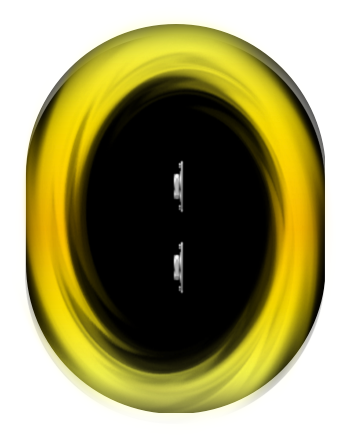
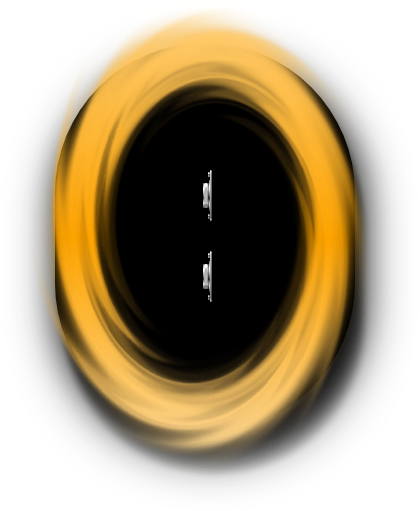
Fix jack positions, generate proper screenshots

diff --git a/portal.lv2/modgui/stylesheet-sink.css b/portal.lv2/modgui/stylesheet-sink.css
@@ -15,7 +15,7 @@
 .falktx-portal-sink .mod-pedal-input,
 .falktx-portal-sink .mod-pedal-output {
     top: 125px;
-    left: 70px;
+    left: 80px;
 }
 
 .falktx-portal-sink .mod-pedal-input .mod-audio-input {
@@ -44,7 +44,7 @@ OTHERWISE, ARISING FROM, OUT OF OR IN CONNECTION WITH THE SOFTWARE OR THE USE OR
     position: absolute;
     width: 390px;
     height: 390px;
-    filter: contrast(1.75);
+    /*filter: contrast(1.75);*/
     transform: translateX(-50px) scaleX(0.7);
 }
 

diff --git a/portal.lv2/modgui/stylesheet-source.css b/portal.lv2/modgui/stylesheet-source.css
@@ -15,7 +15,7 @@
 .falktx-portal-source .mod-pedal-input,
 .falktx-portal-source .mod-pedal-output {
     top: 125px;
-    left: 160px;
+    left: 145px;
 }
 
 .falktx-portal-source .mod-pedal-output .mod-audio-output {
